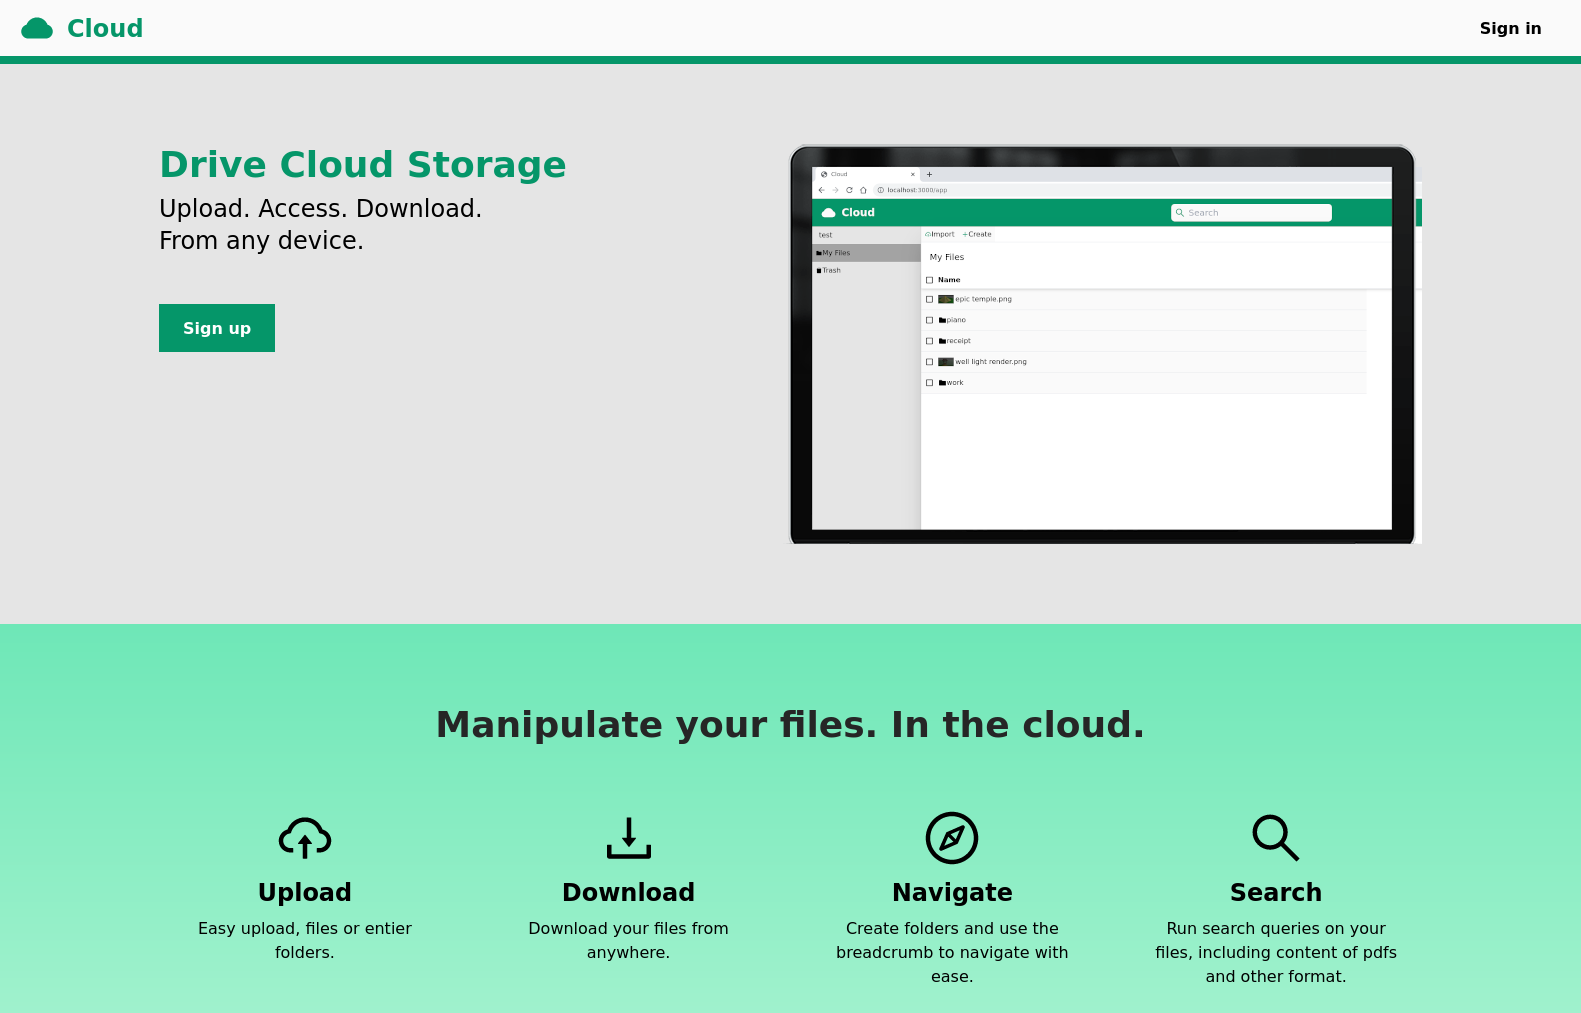
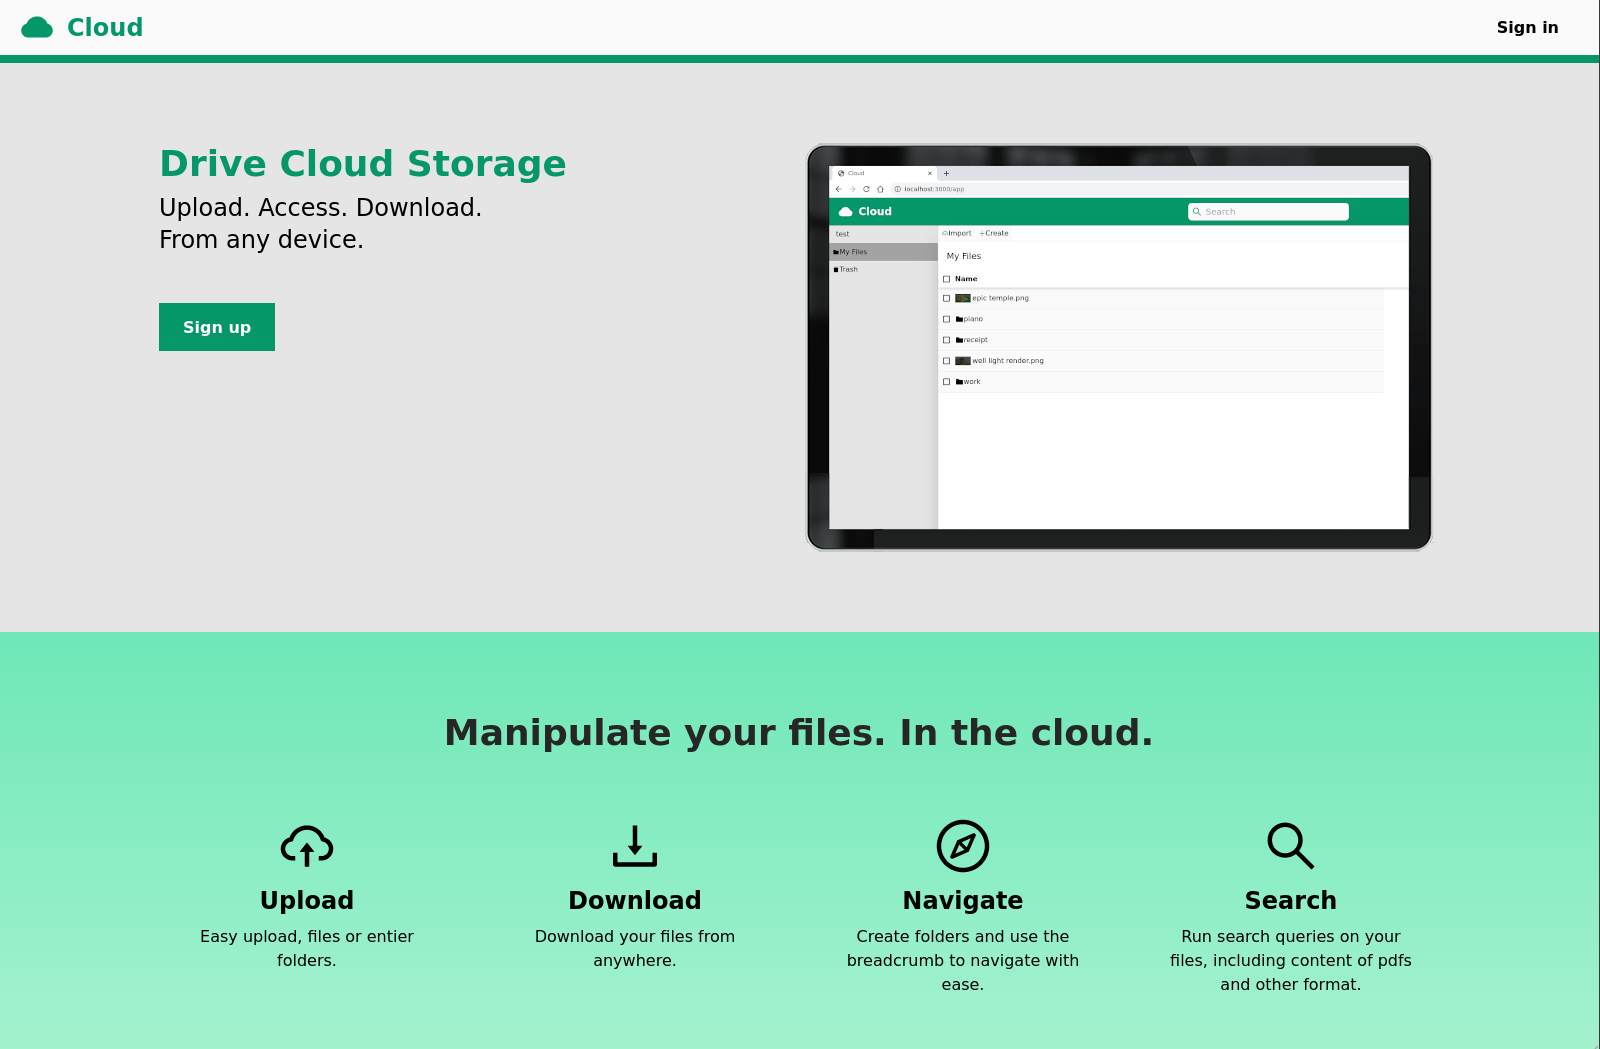
fix(style): layout and image

diff --git a/src/components/Project.jsx b/src/components/Project.jsx
@@ -21,11 +21,11 @@ function Project({
     }
 
     return (
-        <div className={`h-screen md:h-[28rem] flex items-center w-full
-            max-w-screen-lg py-20 px-20 text-neutral-50 md:odd:flex-row-reverse
+        <div className={`md:h-[28rem] flex items-center w-full
+            max-w-screen-lg py-10 md:py-20 px-10 md:px-20 text-neutral-50 md:odd:flex-row-reverse
             border-b last:border-none flex-col md:flex-row gap-16
         `}>
-            <div className="h-1/2 w-full md:h-3/4 md:w-1/2 flex flex-col items-start justify-center gap-8 md:gap-4">
+            <div className="w-full md:h-3/4 md:w-1/2 flex flex-col items-start justify-center gap-8 md:gap-4">
                 <h2 className="text-3xl font-semibold">{name}</h2>
                 <p>{description}</p>
                 <ul className="p-0 flex flex-wrap gap-2 lg:gap-4 items-center list-none">{renderStack()}</ul>
@@ -33,7 +33,7 @@ function Project({
                     {renderLinks()}
                 </div>
             </div>
-            <div className="h-1/2 w-full md:h-full md:w-1/2">
+            <div className="w-full aspect-[10/7] md:w-1/2">
                 <ImageCarousel images={images}/>
             </div>
         </div>

diff --git a/src/css/project.css b/src/css/project.css
@@ -14,43 +14,3 @@
     background-size: cover;
     -webkit-background-size: cover;
 }
-
-.content {
-    box-shadow: 0px 0px 25px rgba(0, 0, 0, 0.4);
-    background-color: rgba(0, 0, 0, 0.4);
-    color: #FFF;
-    position: absolute;
-    top: 25%;
-    left: 25%;
-    width: 50%;
-    height: 50%;
-    display: flex;
-}
-
-h2 {
-    font-size: 2.4rem;
-}
-
-.content .text-container {
-    padding: 20px;
-    width: 100%;
-    display: flex;
-    flex-direction: column;
-    justify-content: space-around;
-    align-items: center;
-    text-align: center;
-}
-
-.background {
-    background-position: center top;
-}
-
-@media only screen and (max-width: 768px) {
-    .content {
-        top: 0%;
-        left: 0%;
-        width: 100%;
-        height: 100%;
-        padding-bottom: 5vh;
-    }
-}

diff --git a/src/components/Contact.jsx b/src/components/Contact.jsx
@@ -64,7 +64,7 @@ function Contact() {
         <div className="project bg-black">
             <div className="h-screen background bg-left-top bg-fixed bg" style={{ backgroundImage: `url(${process.env.PUBLIC_URL}/img/presentation.png)` }}></div>
             <div className="centered-absolute">
-                <form className="w-full max-w-screen-xs md:max-w-screen-sm" onSubmit={handleSubmit}>
+                <form className="w-9/12 md:w-full max-w-screen-xs md:max-w-screen-sm" onSubmit={handleSubmit}>
                     <div className="flex flex-col md:flex-row md:gap-6">
                         {renderInput({type: "email", name: "Email", forName: "email"})}
                         {renderInput({type: "text", name: "Subject", forName: "subject"})}

diff --git a/src/css/app.css b/src/css/app.css
@@ -15,3 +15,14 @@
     justify-content: center;
     align-items: center;
 }
+
+.half-centered-absolute {
+    position: absolute;
+    top: 50%;
+    left: 0%;
+    width: 100%;
+    height: 50%;
+    display: flex;
+    justify-content: center;
+    align-items: center;
+}
